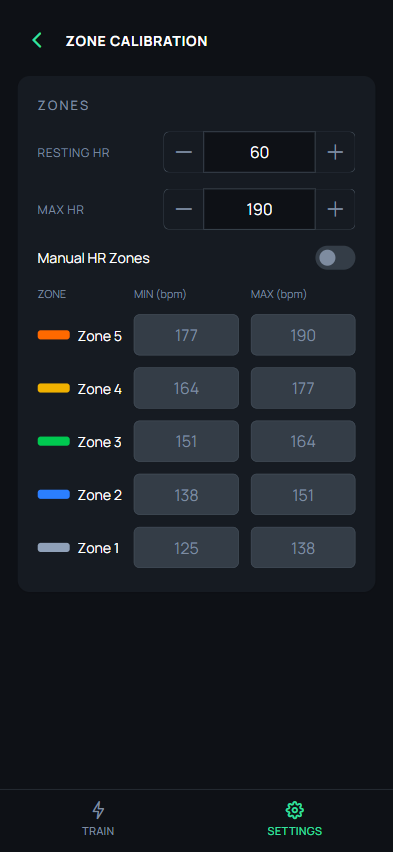
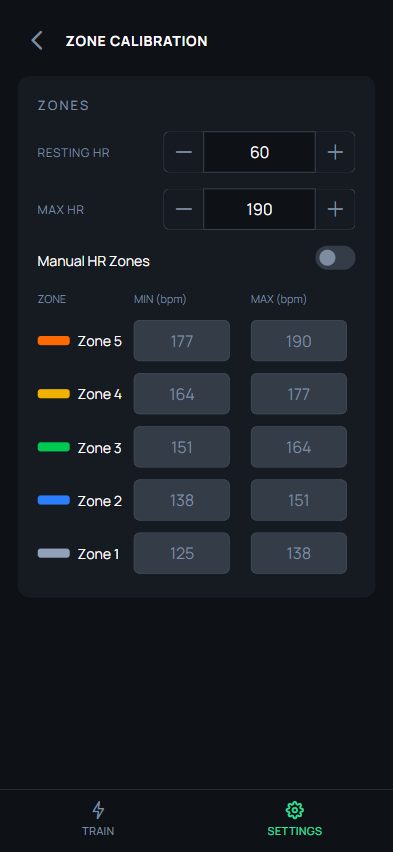
Refresh app screenshots and add the zone distribution view

diff --git a/index.html b/index.html
@@ -76,6 +76,7 @@
                         <button type="button" data-bs-target="#shotCarousel" data-bs-slide-to="2" aria-label="Slide 3"></button>
                         <button type="button" data-bs-target="#shotCarousel" data-bs-slide-to="3" aria-label="Slide 4"></button>
                         <button type="button" data-bs-target="#shotCarousel" data-bs-slide-to="4" aria-label="Slide 5"></button>
+                        <button type="button" data-bs-target="#shotCarousel" data-bs-slide-to="5" aria-label="Slide 6"></button>
                     </div>
                     <div class="carousel-inner">
                         <div class="carousel-item active">
@@ -88,6 +89,12 @@
                             <div class="shot">
                                 <div class="phone"><img src="/images/02-workout-live.png" alt="Live workout view" /></div>
                                 <p class="caption">Stay in your zone</p>
+                            </div>
+                        </div>
+                        <div class="carousel-item">
+                            <div class="shot">
+                                <div class="phone"><img src="/images/06-zone-distribution.png" alt="Live time-in-zone distribution" /></div>
+                                <p class="caption">See where the time went</p>
                             </div>
                         </div>
                         <div class="carousel-item">
